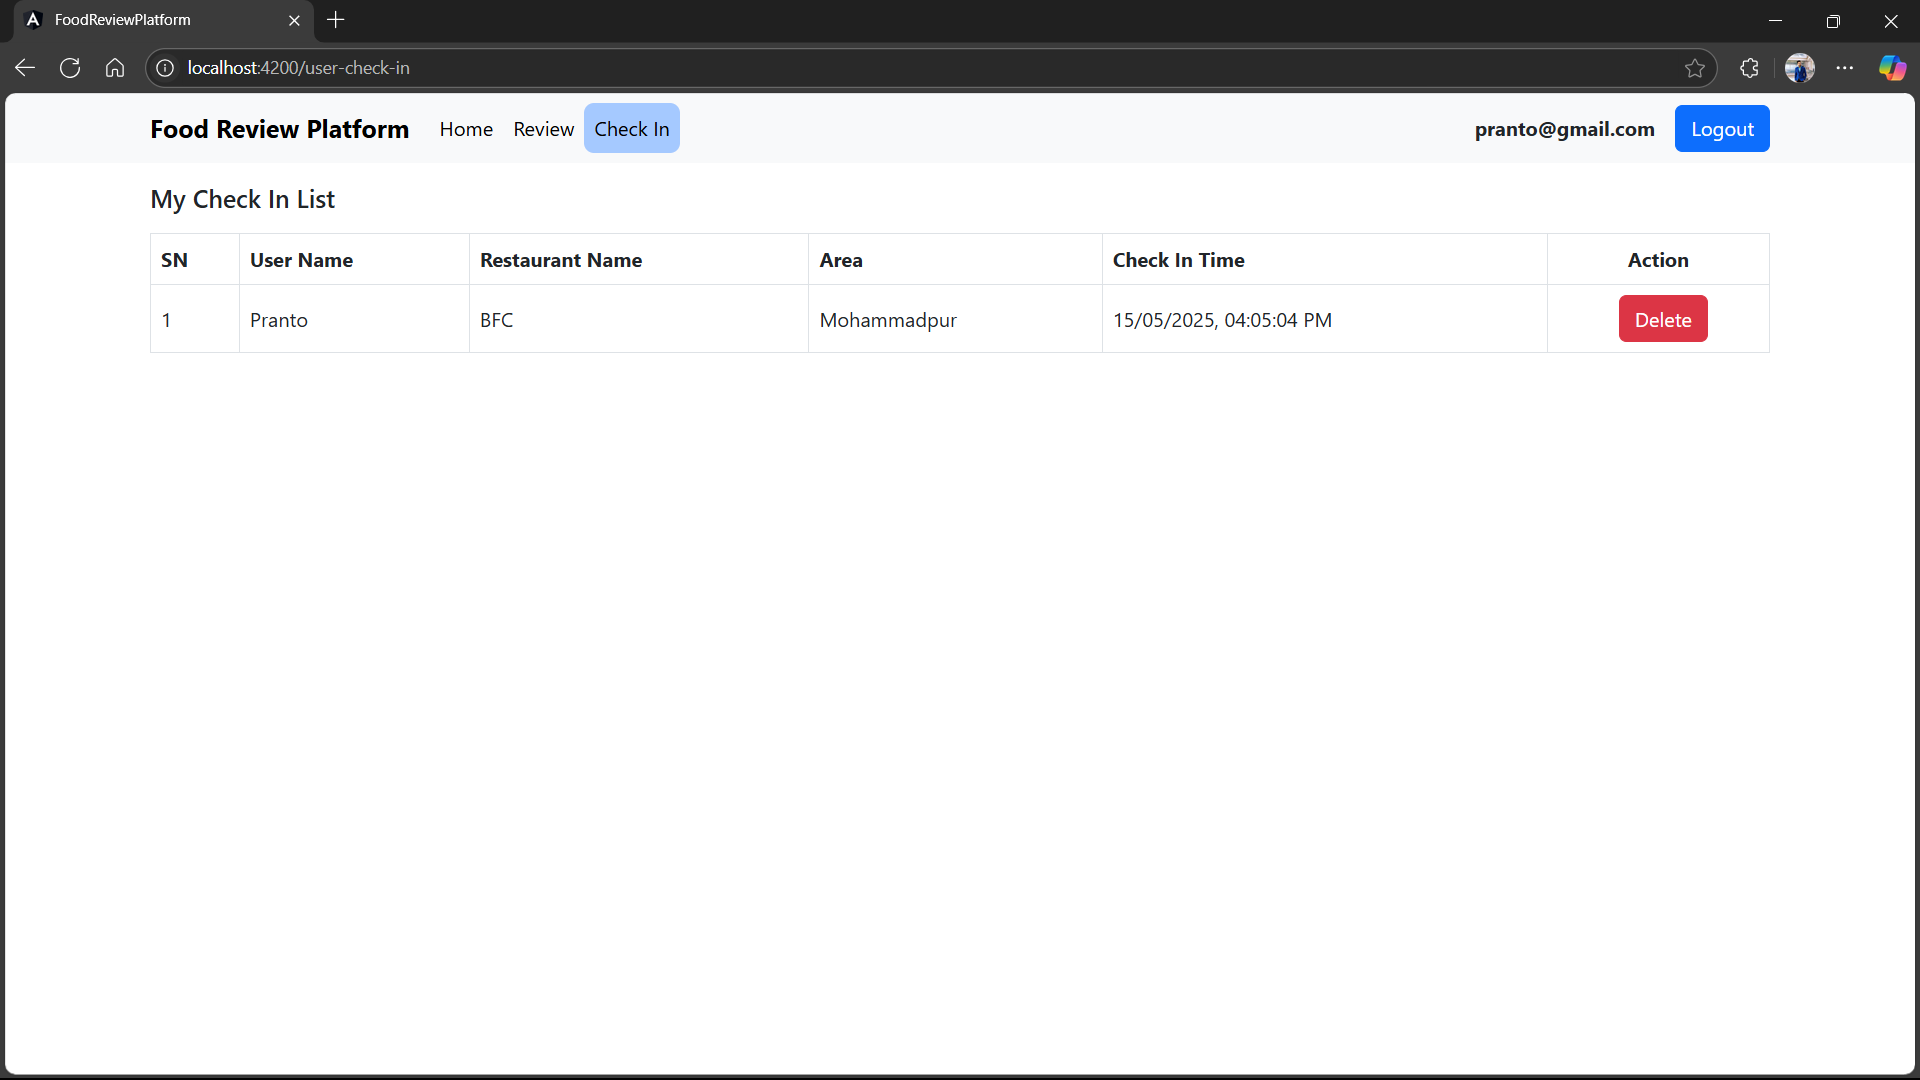
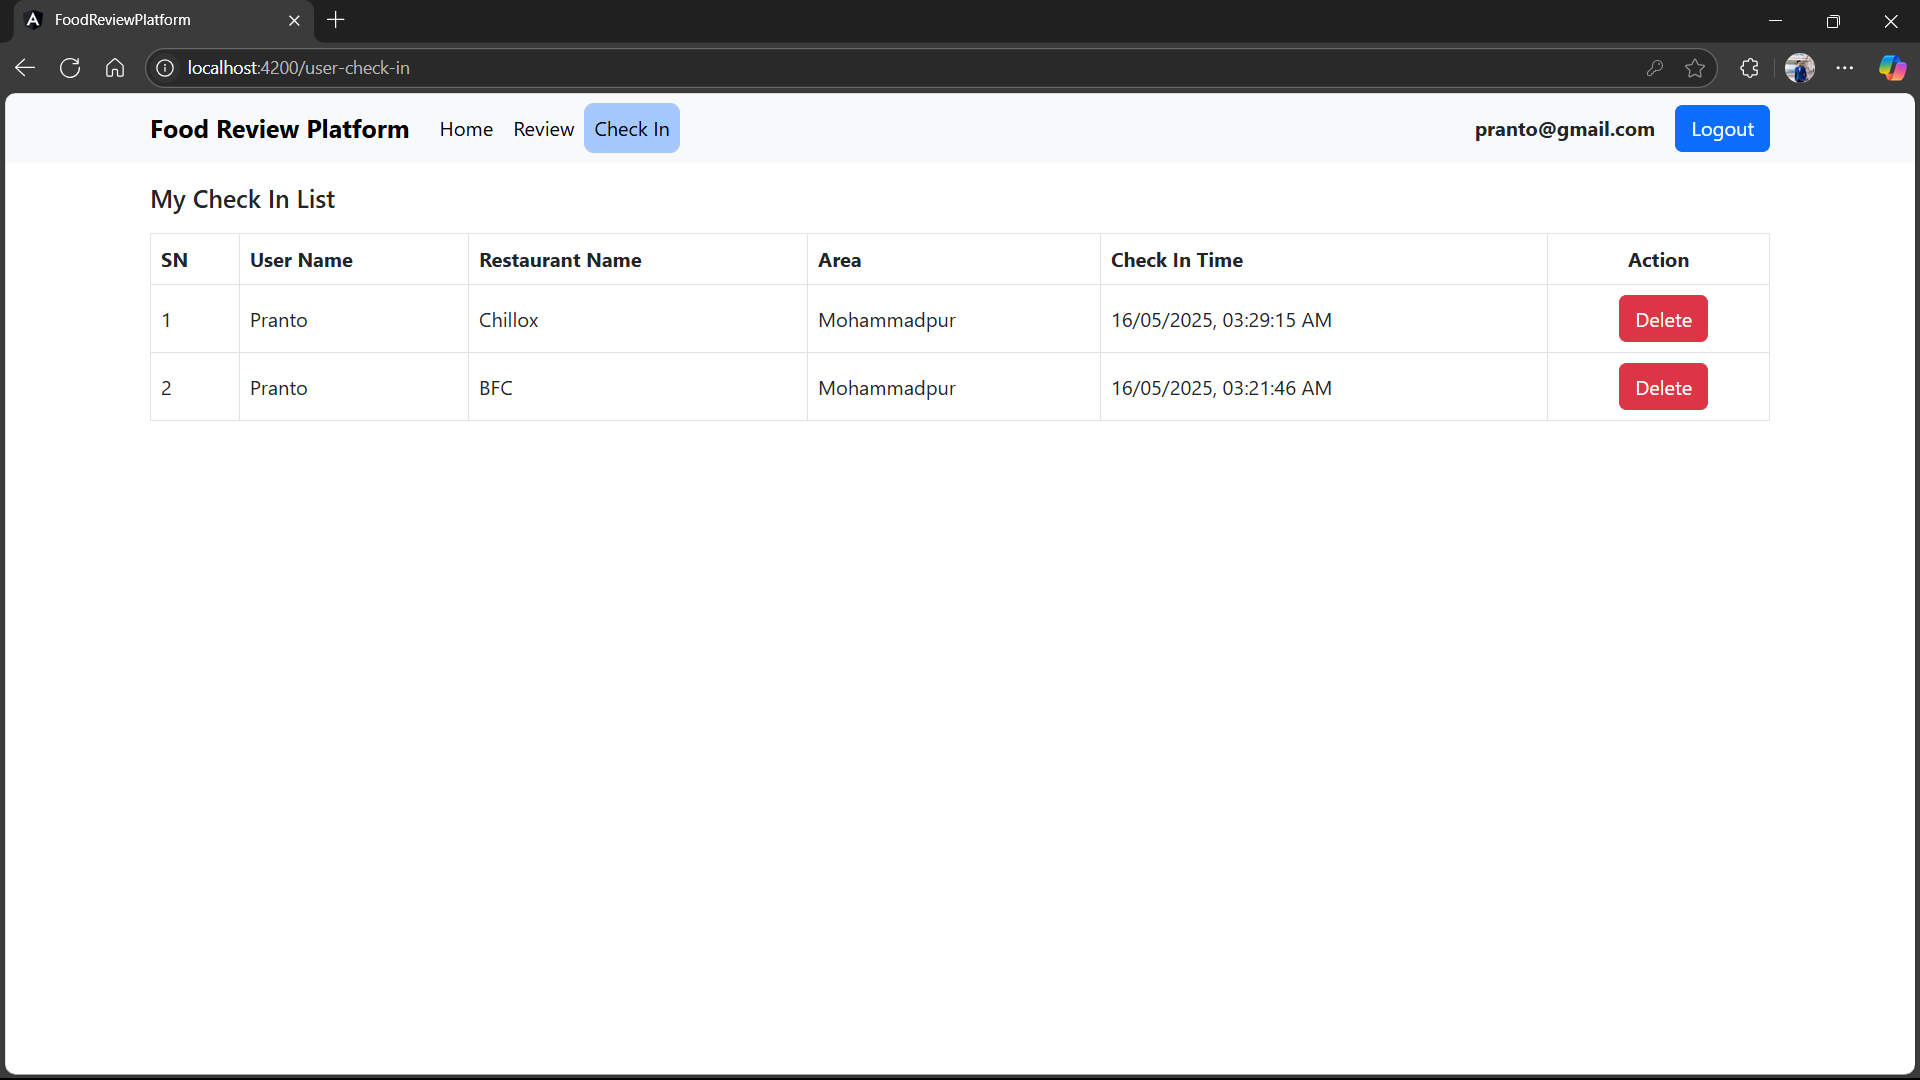
Average Rating

diff --git a/src/app/features/review/review-list/review-list.component.ts b/src/app/features/review/review-list/review-list.component.ts
@@ -3,6 +3,7 @@ import { ActivatedRoute } from '@angular/router';
 import { ReviewService } from '../services/review.service';
 import { CheckInService } from '../../check-in/services/check-in.service';
 import { AuthService } from '../../auth/services/auth.service';
+import { AddCheckInRequest } from '../../check-in/models/add-check-in-request.model';
 
 @Component({
   selector: 'app-review-list',
@@ -11,45 +12,39 @@ import { AuthService } from '../../auth/services/auth.service';
 })
 export class ReviewListComponent {
 
-  user: any;
   restaurantId: number = 0;
-  reviews: any[] = [];
+
+  user: any;
   userCheckIns: any[] = [];
   userReviews: any[] = [];
+  reviews: any[] = [];
+  averageRating: number = 0;
+
+  model: AddCheckInRequest = {
+    restaurantId: 0
+  };
 
   constructor(
     private route: ActivatedRoute,
     private authService: AuthService,
     private reviewService: ReviewService,
     private checkInService: CheckInService) {
-    this.restaurantId = parseInt(this.route.snapshot.queryParamMap.get('id') ?? '0');
   }
 
   ngOnInit(): void {
-    this.onAuthUser();
-    
     this.restaurantId = parseInt(this.route.snapshot.queryParamMap.get('id') ?? '0');
 
-    this.checkInService.getUserCheckInsByRestaurant(this.restaurantId)
-      .subscribe({
-        next: (response) => {
-          this.userCheckIns = response;
-        }
-      });
+    this.model.restaurantId = this.restaurantId;
 
-    this.reviewService.getReviewsByRestaurant(this.restaurantId)
-      .subscribe({
-        next: (response) => {
-          this.reviews = response;
-        }
-      });
+    this.onAuthUser();
 
-    this.reviewService.getUserReviewsByRestaurant(this.restaurantId)
-      .subscribe({
-        next: (response) => {
-          this.userReviews = response;
-        }
-      });
+    this.onUserCheckIn();
+
+    this.onUserReview();
+
+    this.onReview();
+
+    this.onAverageRating();
   }
 
   onAuthUser(): void {
@@ -63,6 +58,36 @@ export class ReviewListComponent {
     this.user = this.authService.getUser();
   }
 
+  onUserCheckIn(): void {
+    this.checkInService.getUserCheckInsByRestaurant(this.restaurantId)
+      .subscribe({
+        next: (response) => {
+          this.userCheckIns = response;
+        }
+      });
+  }
+
+  onUserReview(): void {
+    this.reviewService.getUserReviewsByRestaurant(this.restaurantId)
+      .subscribe({
+        next: (response) => {
+          this.userReviews = response;
+        }
+      });
+  }
+
+  addCheckIn(): void {
+    this.checkInService.addCheckIn(this.model)
+      .subscribe({
+        next: (response) => {
+          this.onUserCheckIn();
+        },
+        error: (err) => {
+          alert('You have already checked in this restaurant today');
+        }
+      });
+  }
+
   onDeleteReview(id: any): void {
     this.reviewService.deleteReview(id)
       .subscribe({
@@ -70,6 +95,24 @@ export class ReviewListComponent {
           this.ngOnInit();
         }
       })
+  }
+
+  onReview(): void {
+    this.reviewService.getReviewsByRestaurant(this.restaurantId)
+      .subscribe({
+        next: (response) => {
+          this.reviews = response;
+        }
+      });
+  }
+
+  onAverageRating(): void {
+    this.reviewService.getAverageRatingByRestaurant(this.restaurantId)
+      .subscribe({
+        next: (response) => {
+          this.averageRating = response;
+        }
+      });
   }
 
   onDeleteCheckIn(id: any): void {

diff --git a/src/app/features/review/review-list/review-list.component.html b/src/app/features/review/review-list/review-list.component.html
@@ -3,8 +3,7 @@
     <h5 class="mt-3">My Check In</h5>
 
     <div class="d-flex justify-content-between mt-3">
-        <!-- <div class="d-flex"></div> -->
-        <a class="btn btn-primary" [routerLink]="['/check-in/add']"  [queryParams]="{ id: restaurantId }">Add Check In</a>
+        <button class="btn btn-primary" (click)="addCheckIn()">Add Check In</button>
     </div>
     <ng-container>
         <table class="table table-bordered mt-3">
@@ -29,7 +28,8 @@
                     <td>{{userCheckIn.area}}</td>
                     <td>{{userCheckIn.checkInTime | date: 'dd/MM/yyyy, hh:mm:ss a'}}</td>
                     <td class="text-center">
-                        <button type="button" class="btn btn-danger ms-2" (click)="onDeleteCheckIn(userCheckIn.id)">Delete</button>
+                        <button type="button" class="btn btn-danger ms-2"
+                            (click)="onDeleteCheckIn(userCheckIn.id)">Delete</button>
                     </td>
                 </tr>
             </tbody>
@@ -45,7 +45,7 @@
 
     <div class="d-flex justify-content-between mt-3">
         <!-- <div class="d-flex"></div> -->
-        <a class="btn btn-primary" [routerLink]="['/review/add']"  [queryParams]="{ id: restaurantId }">Add Review</a>
+        <a class="btn btn-primary" [routerLink]="['/review/add']" [queryParams]="{ id: restaurantId }">Add Review</a>
     </div>
     <ng-container>
         <table class="table table-bordered mt-3">
@@ -74,8 +74,10 @@
                     <td>{{userReview.comment}}</td>
                     <td>{{userReview.reviewTime | date: 'dd/MM/yyyy, hh:mm:ss a'}}</td>
                     <td class="text-center">
-                        <a class="btn btn-primary" [routerLink]="['/review/edit']" [queryParams]="{ id: userReview.id }">Edit</a>
-                        <button type="button" class="btn btn-danger ms-2" (click)="onDeleteReview(userReview.id)">Delete</button>
+                        <a class="btn btn-primary" [routerLink]="['/review/edit']"
+                            [queryParams]="{ id: userReview.id }">Edit</a>
+                        <button type="button" class="btn btn-danger ms-2"
+                            (click)="onDeleteReview(userReview.id)">Delete</button>
                     </td>
                 </tr>
             </tbody>
@@ -89,6 +91,10 @@
 <div class="container">
 
     <h5 class="mt-3">Review List</h5>
+
+    <div>
+        <strong>Average Rating:</strong> {{ averageRating | number:'.1-2' }}
+    </div>
 
     <ng-container>
         <table class="table table-bordered mt-3">

diff --git a/src/app/app.module.ts b/src/app/app.module.ts
@@ -18,7 +18,6 @@ import { AddReviewComponent } from './features/review/add-review/add-review.comp
 import { EditReviewComponent } from './features/review/edit-review/edit-review.component';
 import { UserReviewListComponent } from './features/review/user-review-list/user-review-list.component';
 import { UserCheckInListComponent } from './features/check-in/user-check-in-list/user-check-in-list.component';
-import { AddCheckInComponent } from './features/check-in/add-check-in/add-check-in.component';
 
 @NgModule({
   declarations: [
@@ -32,8 +31,7 @@ import { AddCheckInComponent } from './features/check-in/add-check-in/add-check-
     AddReviewComponent,
     EditReviewComponent,
     UserReviewListComponent,
-    UserCheckInListComponent,
-    AddCheckInComponent
+    UserCheckInListComponent
   ],
   imports: [
     BrowserModule,

diff --git a/src/app/app-routing.module.ts b/src/app/app-routing.module.ts
@@ -10,7 +10,6 @@ import { AddReviewComponent } from './features/review/add-review/add-review.comp
 import { EditReviewComponent } from './features/review/edit-review/edit-review.component';
 import { UserReviewListComponent } from './features/review/user-review-list/user-review-list.component';
 import { UserCheckInListComponent } from './features/check-in/user-check-in-list/user-check-in-list.component';
-import { AddCheckInComponent } from './features/check-in/add-check-in/add-check-in.component';
 
 const routes: Routes = [
   {
@@ -51,11 +50,6 @@ const routes: Routes = [
   {
     path: 'user-check-in',
     component: UserCheckInListComponent,
-    canActivate: [authGuard]
-  },
-  {
-    path: 'check-in/add',
-    component: AddCheckInComponent,
     canActivate: [authGuard]
   },
 ];

diff --git a/src/app/features/review/services/review.service.ts b/src/app/features/review/services/review.service.ts
@@ -14,6 +14,10 @@ export class ReviewService {
     return this.http.get<any>(`${environment.apiBaseUrl}/api/Review/get-reviews-by-restaurant?id=${id}`);
   }
 
+  getAverageRatingByRestaurant(id: any): Observable<any> {
+    return this.http.get<any>(`${environment.apiBaseUrl}/api/Review/get-average-rating-by-restaurant?id=${id}`);
+  }
+
   getUserReviewsByRestaurant(id: any): Observable<any> {
     return this.http.get<any>(`${environment.apiBaseUrl}/api/Review/get-user-reviews-by-restaurant?id=${id}`);
   }

diff --git a/src/environments/environment.development.ts b/src/environments/environment.development.ts
@@ -1,4 +1,3 @@
 export const environment = {
-  // apiBaseUrl: 'https://localhost:5000'
   apiBaseUrl: 'http://localhost:5249'
 };

diff --git a/src/environments/environment.ts b/src/environments/environment.ts
@@ -1,3 +1,3 @@
 export const environment = {
-  apiBaseUrl: 'https://localhost:5000'
+  apiBaseUrl: 'http://localhost:5249'
 };
